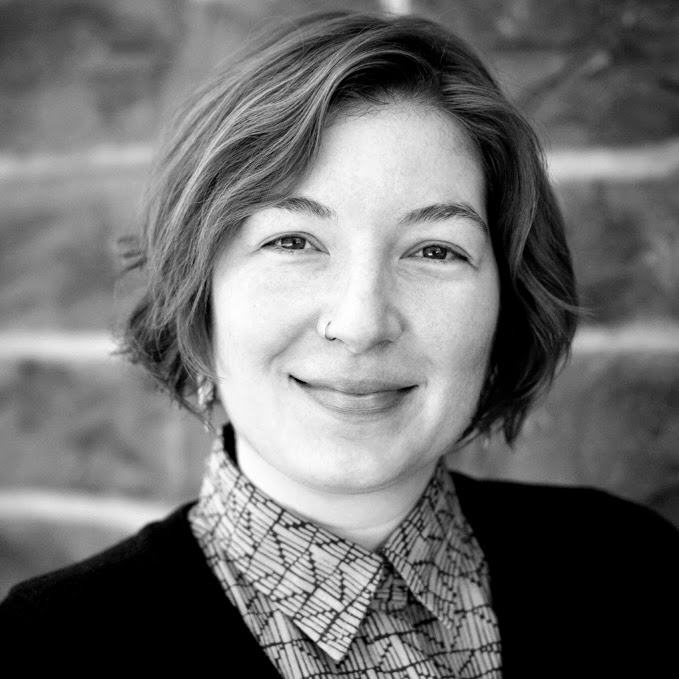
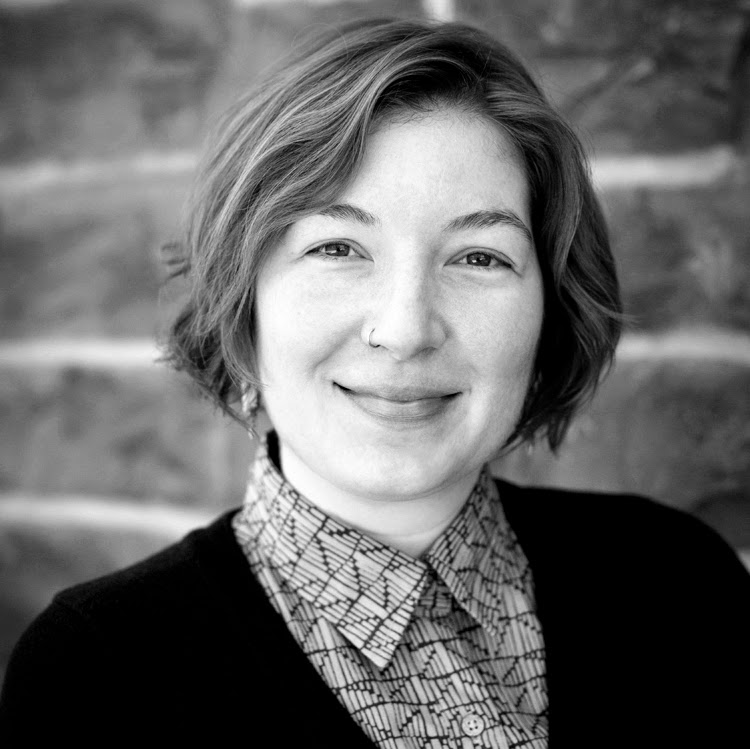
website update

diff --git a/research.html b/research.html
@@ -389,7 +389,7 @@ I also discuss the illocutionary variability of Cheyenne sentences that contain 
             <div id="links"><!-- open links div -->
                 <a href="http://linguistics.cornell.edu/"><img src="cuLing.gif" height=40 border=0 hspace=12 vspace=4  /></a>
                 <a href="https://cogsci.cornell.edu/"> <img src="cogsci.png" alt="cogsci.cornell.edu" width=150 border=0 hspace=12 vspace=10 /></a> 
-                <a href="http://cdkc.edu/"><img src="cdkc.gif" height=40 border=0 vspace=4  /></a>
+                <a href="http://cdkc.edu/"><img src="cdkc.gif" height=40 border=0 hspace=12 vspace=4  /></a>
             </div><!-- close links div -->
         </div><!-- close container div -->
     </body>

diff --git a/index.html b/index.html
@@ -194,7 +194,7 @@
             <div id="links"><!-- open links div -->
                 <a href="http://linguistics.cornell.edu/"><img src="cuLing.gif" height=40 border=0 hspace=6 vspace=4 /></a>
                 <a href="https://cogsci.cornell.edu/"> <img src="cogsci.png" alt="cogsci.cornell.edu" width=150 border=0 hspace=12 vspace=10 /></a> 
-                <a href="http://cdkc.edu/"><img src="cdkc.gif" height=40 border=0 vspace=4 /></a>
+                <a href="http://cdkc.edu/"><img src="cdkc.gif" height=40 border=0 hspace=12 vspace=4 /></a>
             </div><!-- close links div -->
         </div><!-- close container div -->
     </body>

diff --git a/Cheyenne.html b/Cheyenne.html
@@ -94,7 +94,7 @@
             <div id="links"><!-- open links div -->
                 <a href="http://linguistics.cornell.edu/"><img src="cuLing.gif" height=40 border=0 hspace=12 vspace=4 /></a>
                 <a href="https://cogsci.cornell.edu/"> <img src="cogsci.png" alt="cogsci.cornell.edu" width=150 border=0 hspace=12 vspace=10 /></a> 
-                <a href="http://cdkc.edu/"><img src="cdkc.gif" height=40 border=0 vspace=4 /></a>
+                <a href="http://cdkc.edu/"><img src="cdkc.gif" height=40 border=0 hspace=12 vspace=4 /></a>
             </div><!-- close links div -->
         </div><!-- close container div -->
     </body>

diff --git a/contact.html b/contact.html
@@ -99,7 +99,7 @@
             <div id="links"><!-- open links div -->
                 <a href="http://linguistics.cornell.edu/"><img src="cuLing.gif" height=40 border=0 hspace=12 vspace=4 /></a>
                 <a href="https://cogsci.cornell.edu/"> <img src="cogsci.png" alt="cogsci.cornell.edu" width=150 border=0 hspace=12 vspace=10 /></a> 
-                <a href="http://cdkc.edu/"><img src="cdkc.gif" height=40 border=0 vspace=4 /></a>
+                <a href="http://cdkc.edu/"><img src="cdkc.gif" height=40 border=0 hspace=12 vspace=4 /></a>
             </div><!-- close links div -->
         </div><!-- close container div -->
     </body>

diff --git a/resources.html b/resources.html
@@ -69,7 +69,7 @@
             <div id="links"><!-- open links div -->
                 <a href="http://linguistics.cornell.edu/"><img src="cuLing.gif" height=40 border=0 hspace=12 vspace=4 /></a>
                 <a href="https://cogsci.cornell.edu/"> <img src="cogsci.png" alt="cogsci.cornell.edu" width=150 border=0 hspace=12 vspace=10 /></a> 
-                <a href="http://cdkc.edu/"><img src="cdkc.gif" height=40 border=0 vspace=4 /></a>
+                <a href="http://cdkc.edu/"><img src="cdkc.gif" height=40 border=0 hspace=12 vspace=4 /></a>
             </div><!-- close links div -->
         </div><!-- close container div -->
     </body>
